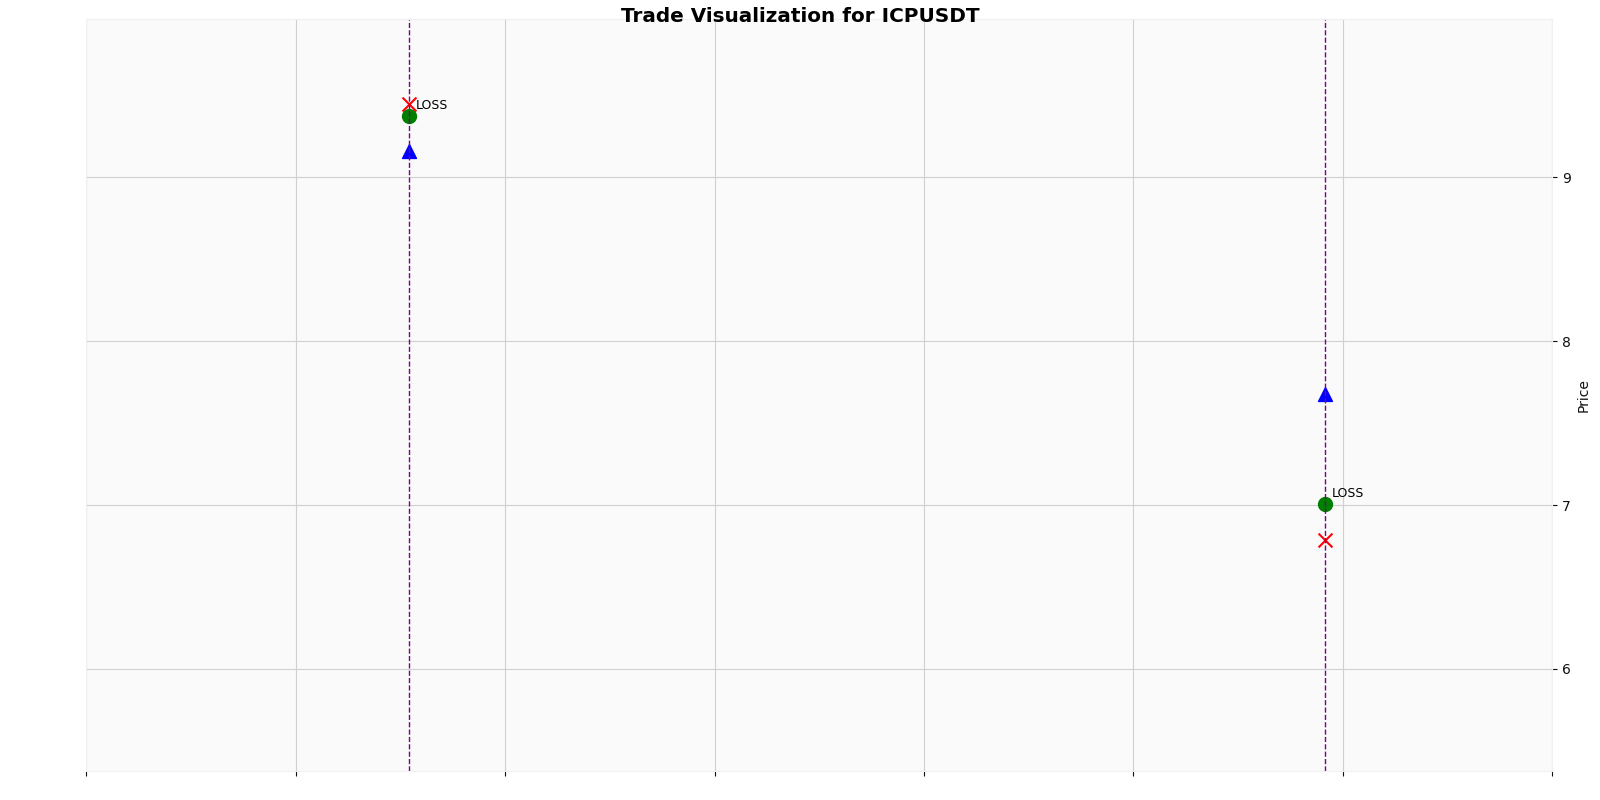
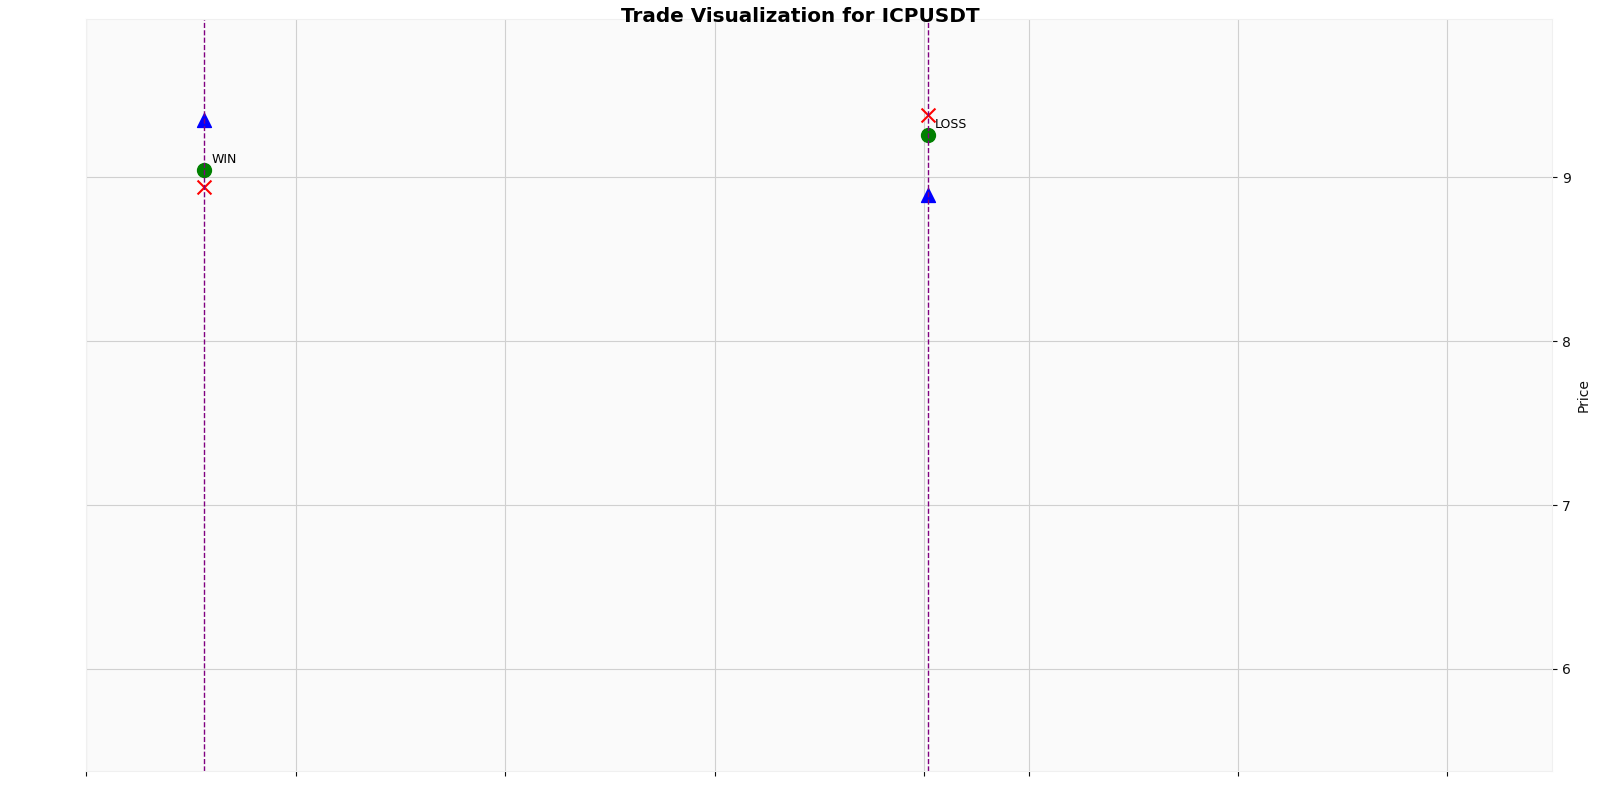
edits - working

diff --git a/strategy_fakeout/strategy.py b/strategy_fakeout/strategy.py
@@ -25,7 +25,7 @@ def generate_signal(data, lookback=30):
       lookback (int): Number of candles to use as the lookback for the swing point (min 10, max 300).
     
     Returns:
-      dict or None: A dictionary containing 'side', 'entry', 'stop_loss', and 'take_profit' if a setup is detected; otherwise, None.
+      dict or None: A dictionary containing 'side', 'entry', 'stop_loss', 'take_profit' and 'debug_info' if a setup is detected; otherwise, None.
     """
     lookback = max(10, min(lookback, 300))
     if len(data) < lookback + 2:
@@ -52,11 +52,21 @@ def generate_signal(data, lookback=30):
         stop_loss = max(breakout_candle.high, confirmation_candle.high)  # Stop loss is placed just above the higher of breakout or confirmation candle's high
         risk = stop_loss - entry_price
         take_profit = entry_price - 3 * risk
+        debug_info = {
+            "lookback": lookback,
+            "swing_high": swing_high,
+            "swing_low": swing_low,
+            "pos_high": int(pos_high),
+            "pos_low": int(pos_low),
+            "breakout_candle": breakout_candle.to_dict(),
+            "confirmation_candle": confirmation_candle.to_dict()
+        }
         return {
             "side": "short",
             "entry": entry_price,
             "stop_loss": stop_loss,
-            "take_profit": take_profit
+            "take_profit": take_profit,
+            "debug_info": debug_info
         }
 
     # Long trade setup with minimum 3 candle gap enforcement
@@ -67,11 +77,21 @@ def generate_signal(data, lookback=30):
         stop_loss = breakout_candle.low  # Stop loss is placed just below the breakout candle's low
         risk = entry_price - stop_loss
         take_profit = entry_price + 3 * risk
+        debug_info = {
+            "lookback": lookback,
+            "swing_high": swing_high,
+            "swing_low": swing_low,
+            "pos_high": int(pos_high),
+            "pos_low": int(pos_low),
+            "breakout_candle": breakout_candle.to_dict(),
+            "confirmation_candle": confirmation_candle.to_dict()
+        }
         return {
             "side": "long",
             "entry": entry_price,
             "stop_loss": stop_loss,
-            "take_profit": take_profit
+            "take_profit": take_profit,
+            "debug_info": debug_info
         }
 
     return None 

diff --git a/strategy_fakeout/backtesting.py b/strategy_fakeout/backtesting.py
@@ -43,7 +43,7 @@ def calculate_exit_profit_short(entry_price, exit_price):
     # For shorts, profit is positive when exit_price is lower than entry_price
     return (adjusted_entry - adjusted_exit) / adjusted_entry
 
-def backtest_strategy(symbol, timeframe=OHLCV_TIMEFRAME, days=7, client=None, use_random_date=False, swing_lookback=30):
+def backtest_strategy(symbol, timeframe=OHLCV_TIMEFRAME, days=7, client=None, use_random_date=False, swing_lookback=20):
     # Determine backtesting date range using the current date
     end_date = datetime.now()
     start_date = end_date - timedelta(days=days)
@@ -153,6 +153,7 @@ def backtest_strategy(symbol, timeframe=OHLCV_TIMEFRAME, days=7, client=None, us
                 "outcome": outcome,
                 "profit": profit
             }
+            logger.debug(f"Trade generated for {symbol}: {trade} | Signal debug info: {signal.get('debug_info', {})}")
             signals.append(trade)
     logger.debug(f"Completed backtesting for {symbol}. Total trades: {len(signals)}")
     return signals, df

diff --git a/strategy_fakeout/breakout-strategy.py b/strategy_fakeout/breakout-strategy.py
@@ -15,8 +15,8 @@ def main():
         print("No top volume pairs found.")
         return
 
-    # Reduced backtest period from 30 to 7 days
-    days = 7
+    # Backtest period set to 14 days
+    days = 14
     all_trades = []
     
     for symbol in symbols:
